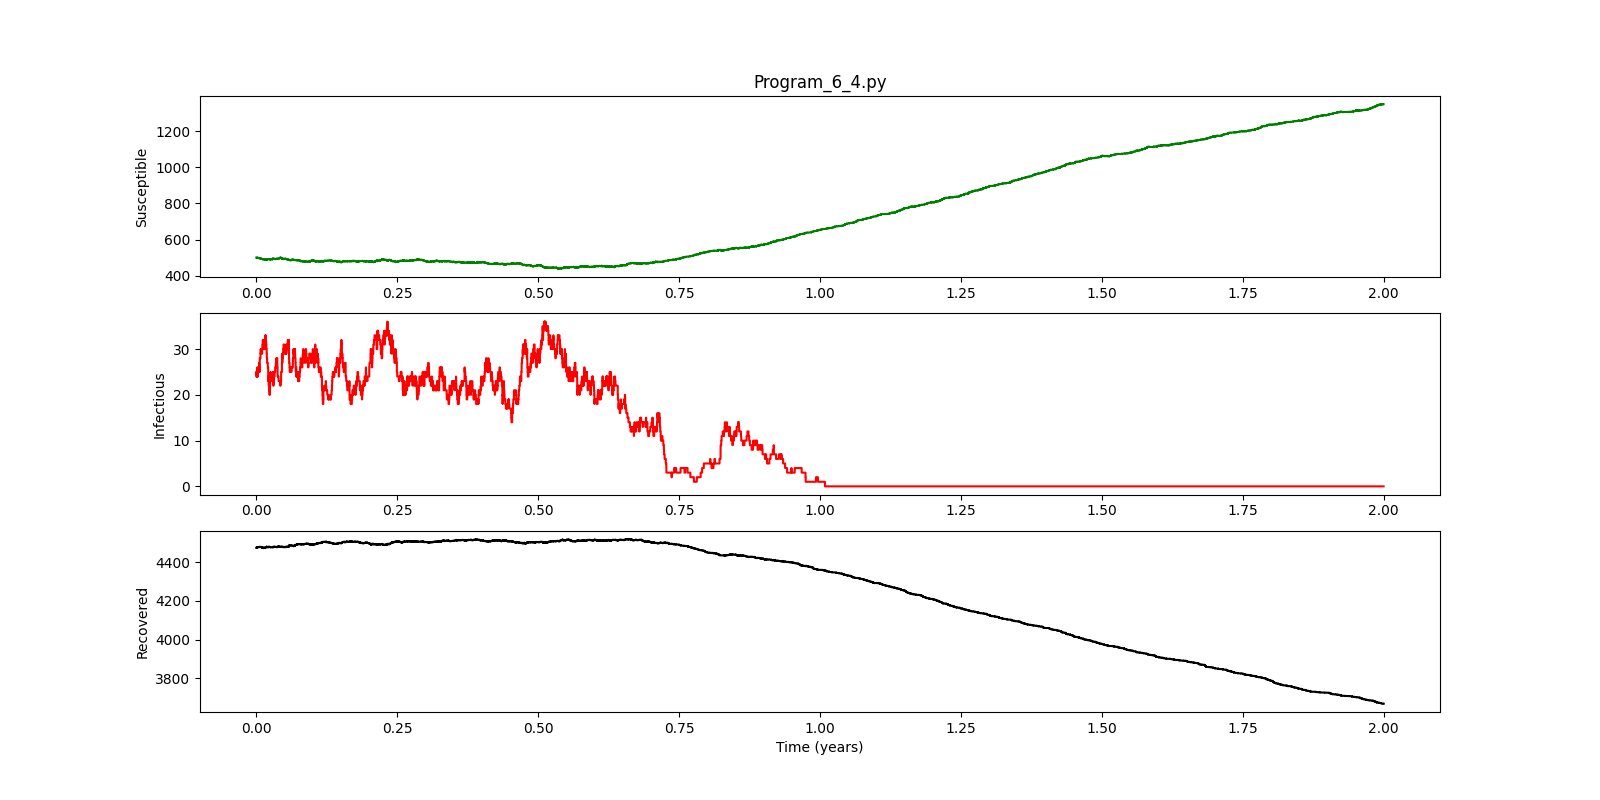
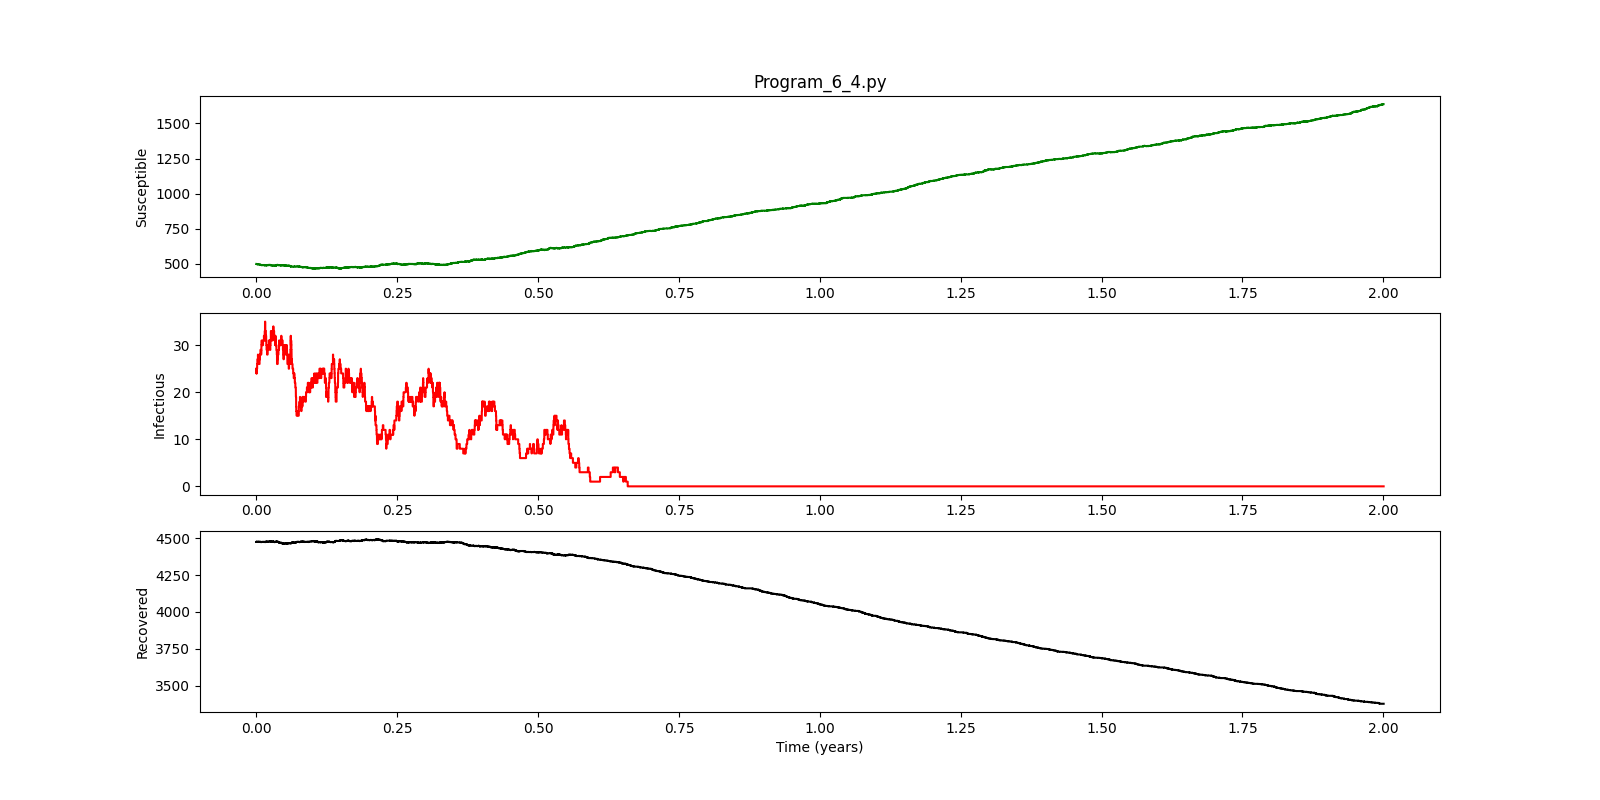
Fixed parameter error in Script 6.4

diff --git a/Python_3_Scripts/Chapter6/Program_6_4/Program_6_4.py b/Python_3_Scripts/Chapter6/Program_6_4/Program_6_4.py
@@ -28,7 +28,7 @@ import pylab as pl
 beta=1.0
 gamma=1/10.0
 mu=5e-4
-N0=50.0
+N0=5000.0
 ### You may want to try with popylation size of 50 (small) to see the events
 ### In this case uncomment the next line
 #N0=50.0
